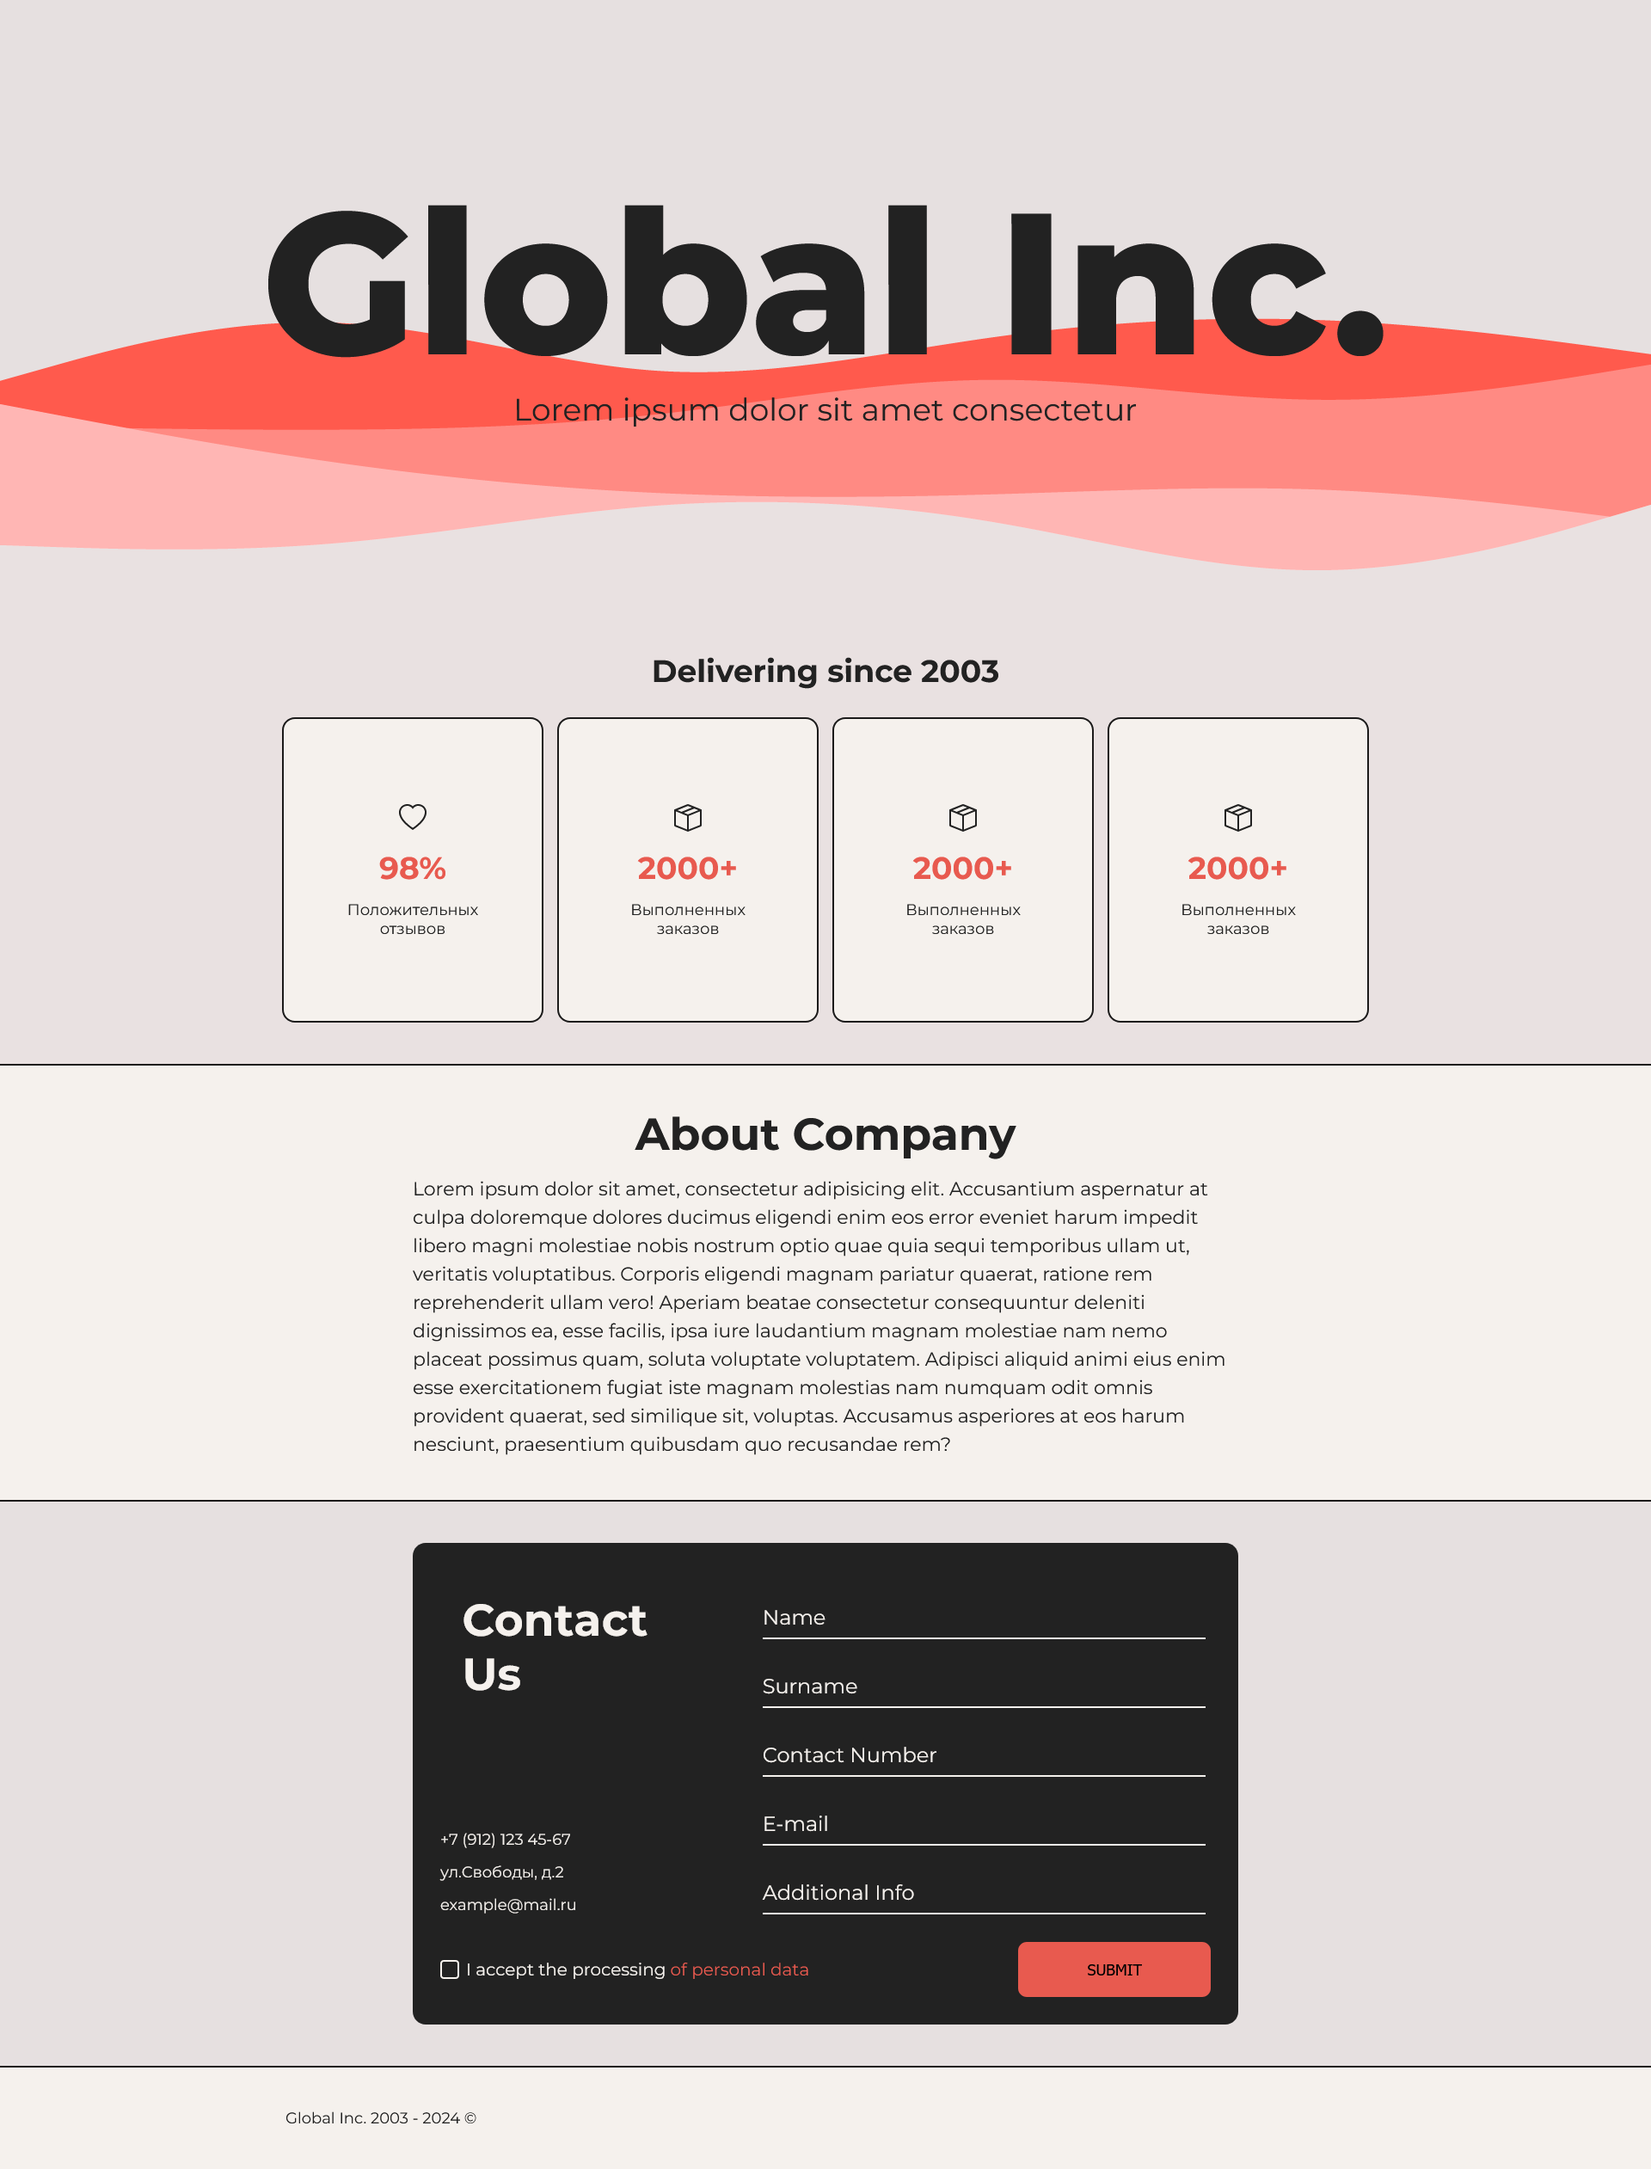
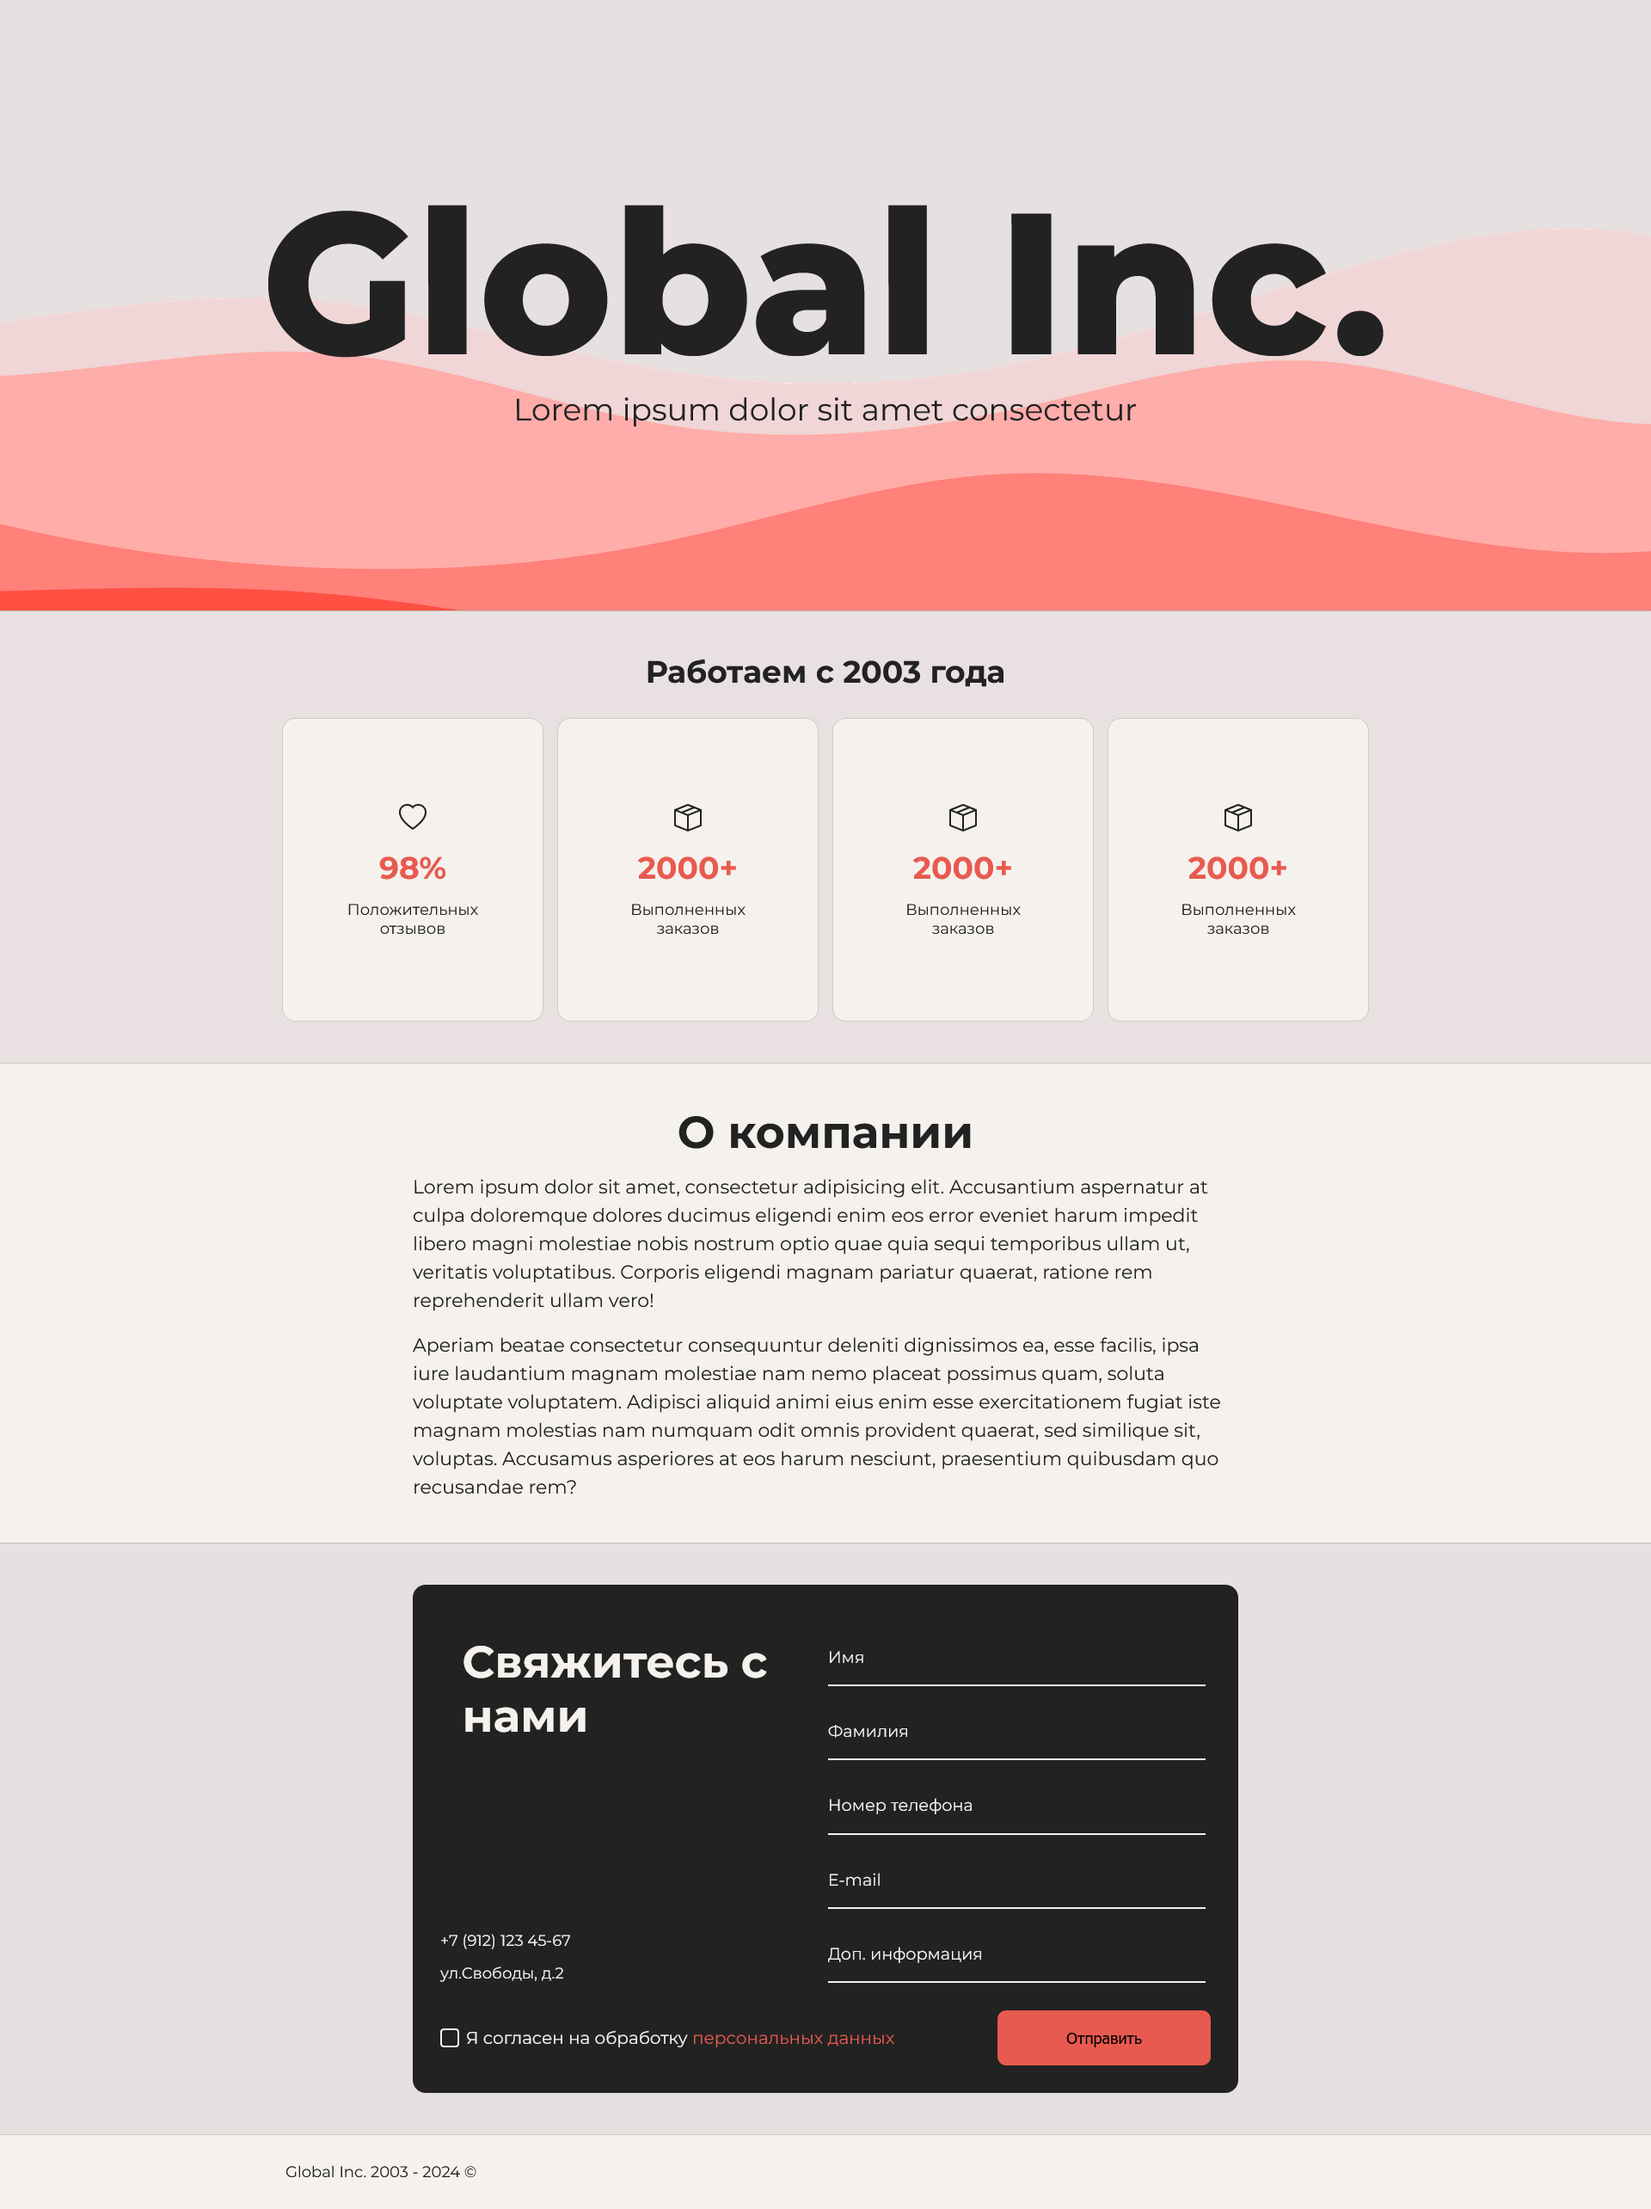
minor changes

diff --git a/src/App.js b/src/App.js
@@ -1,7 +1,8 @@
 import Aos from 'aos'
 import 'aos/dist/aos.css'
-import React, {useEffect} from "react";
+import React, {useEffect, useState} from "react";
 import TitleImg from './bg.png'
+import {ParallaxBanner, ParallaxBannerLayer, ParallaxProvider} from "react-scroll-parallax";
 
 function InfoItem({title, desc, icon}) {
     return (
@@ -23,21 +24,54 @@ function ContactInput({text, type}) {
 }
 
 export default function App() {
+    const [phoneNumber, setPhoneNumber] = useState("");
+    const [checkboxChecked, setCheckboxChecked] = useState(false);
+
     useEffect(() => {
         Aos.init();
     }, []);
+
+    const formatPhoneNumber = (value) => {
+        const cleanedValue = value.replace(/\D/g, '');
+        let formattedPhoneNumber = "+";
+        for (let i = 0; i < cleanedValue.length && i < 11; i++) {
+            if (i === 1)
+                formattedPhoneNumber += " (";
+            if (i === 4)
+                formattedPhoneNumber += ") ";
+            if (i === 7)
+                formattedPhoneNumber += "-";
+            if (i === 9)
+                formattedPhoneNumber += "-";
+            formattedPhoneNumber += cleanedValue[i];
+        }
+        return formattedPhoneNumber;
+    };
+
+    const handlePhoneNumberChange = (e) => {
+        const { value } = e.target;
+        setPhoneNumber(formatPhoneNumber(value));
+    };
+
+    const handlePhoneFocus = () => {
+        if (!phoneNumber.startsWith("+7")) {
+            setPhoneNumber("+7");
+        }
+    }
+
     return (
-        <>
-            <div className='title-section' style={{backgroundImage: `url(${TitleImg})`}}>
-                <div className='title-flexbox'>
-                    <h1 data-aos='fade-up' data-aos-duration="500">Global Inc.</h1>
-                    <h3 data-aos='fade-up' data-aos-duration="600">Lorem ipsum dolor sit amet consectetur</h3>
-                    {/*<a href="#" className="main-btn" data-aos='fade-up' data-aos-duration="700">CONTACT US</a>*/}
+        <ParallaxProvider>
+            <ParallaxBanner layers={[{ image: TitleImg, speed: -10 }]}>
+                <div className='title-section'>
+                    <div className='title-flexbox'>
+                        <h1 data-aos='fade-up' data-aos-duration="500">Global Inc.</h1>
+                        <h3 data-aos='fade-up' data-aos-duration="600">Lorem ipsum dolor sit amet consectetur</h3>
+                    </div>
                 </div>
-            </div>
+            </ParallaxBanner>
             <section className='stats-section'>
                 <div className='container'>
-                    <h3 className='stats-title' data-aos='fade-up' data-aos-duration="500">Delivering since 2003</h3>
+                    <h3 className='stats-title' data-aos='fade-up' data-aos-duration="500">Работаем с 2003 года</h3>
                     <div className='info' data-aos='fade-up' data-aos-duration="650" data-aos-offset="-100">
                         <InfoItem title='98%' desc='Положительных отзывов' icon='heart'/>
                         <InfoItem title='2000+' desc='Выполненных заказов' icon='box-seam'/>
@@ -50,8 +84,7 @@ export default function App() {
                 <div className='container'>
                     <div className='flexbox-center'>
                         <div style={{maxWidth: '60rem'}}>
-                            <h2 style={{marginBottom: '1rem', textAlign: 'center'}} data-aos='fade-up' data-aos-duration="500">About
-                                Company</h2>
+                            <h2 style={{marginBottom: '1rem', textAlign: 'center'}} data-aos='fade-up' data-aos-duration="500">О компании</h2>
                             <p style={{fontSize: 22, lineHeight: 1.5}} data-aos='fade-up' data-aos-duration="650">
                                 Lorem ipsum
                                 dolor sit amet, consectetur adipisicing elit. Accusantium aspernatur at culpa doloremque
@@ -61,7 +94,11 @@ export default function App() {
                                 optio
                                 quae quia sequi temporibus ullam ut, veritatis voluptatibus. Corporis eligendi magnam
                                 pariatur
-                                quaerat, ratione rem reprehenderit ullam vero! Aperiam beatae consectetur consequuntur
+                                quaerat, ratione rem reprehenderit ullam vero!
+                            </p>
+                            <br/>
+                            <p style={{fontSize: 22, lineHeight: 1.5}} data-aos='fade-up' data-aos-duration="650">
+                                Aperiam beatae consectetur consequuntur
                                 deleniti
                                 dignissimos ea, esse facilis, ipsa iure laudantium magnam molestiae nam nemo placeat
                                 possimus
@@ -81,19 +118,22 @@ export default function App() {
                         <div>
                             <div className='contact-flexbox'>
                                 <div className='contact-inner'>
-                                    <h2>Contact Us</h2>
+                                    <h2>Свяжитесь с нами</h2>
                                     <div className='contact-info'>
                                         <p>+7 (912) 123 45-67</p>
                                         <p>ул.Свободы, д.2</p>
-                                        <p>example@mail.ru</p>
                                     </div>
                                 </div>
                                 <div className='fields'>
-                                    <ContactInput text="Name" type='text'/>
-                                    <ContactInput text="Surname" type='text'/>
-                                    <ContactInput text="Contact Number" type='tel'/>
+                                    <ContactInput text="Имя" type='text'/>
+                                    <ContactInput text="Фамилия" type='text'/>
+                                    <div className="form__group field">
+                                        <input type='tel' className="form__field" placeholder='Телефон' name='Телефон'
+                                               id='number' value={phoneNumber} onChange={handlePhoneNumberChange} onFocus={handlePhoneFocus}/>
+                                        <label htmlFor='number' className="form__label">Номер телефона</label>
+                                    </div>
                                     <ContactInput text="E-mail" type='email'/>
-                                    <ContactInput text="Additional Info" type='text'/>
+                                    <ContactInput text="Доп. информация" type='text'/>
                                 </div>
                             </div>
                             <div className='contact-buttons'>
@@ -101,23 +141,22 @@ export default function App() {
                                     <input type="checkbox"/>
                                     <div className="checkbox__checkmark"></div>
                                     <div className="checkbox__body">
-                                        <p style={{fontSize: 20}}>I accept the processing <span
-                                            style={{color: '#E85A4F'}}><a
-                                            href="#">of personal data</a></span></p>
+                                        <p style={{fontSize: 20}}>Я согласен на обработку <span
+                                            style={{color: '#E85A4F'}}>персональных данных</span></p>
                                     </div>
                                 </label>
-                                <button className='submit-btn'>SUBMIT</button>
+                                <button className='submit-btn'>Отправить</button>
                             </div>
                         </div>
                     </form>
                 </div>
             </section>
             <footer>
-                <div className='container'>
+                <div className='container' style={{padding: '2rem'}}>
                     <p>Global Inc. 2003 - 2024 ©</p>
                 </div>
             </footer>
-        </>
+        </ParallaxProvider>
 
     );
 }

diff --git a/src/index.css b/src/index.css
@@ -118,7 +118,7 @@ a, a:visited, a:hover, a:active {
   text-align: center;
   overflow: hidden;
   background-color: #e9e1e1;
-  border-bottom: 2px solid #1B1A1A;
+  border-top: 1px solid #00000029;
 }
   .stats-title{
     padding-bottom: 2rem;
@@ -140,9 +140,9 @@ a, a:visited, a:hover, a:active {
       min-height: 22rem;
       min-width: 19rem;
       gap: 1rem;
-      border: 2px solid #1B1A1A;
       transition: .3s;
       background-color: #f5f1ed;
+      border: 1px solid #00000029;
     }
 
     .info-item:hover{
@@ -156,14 +156,15 @@ a, a:visited, a:hover, a:active {
 
 .about-section{
   background-color: #f5f1ed;
-  border-bottom: 2px solid #1B1A1A;
   overflow: hidden;
+  border-top: 1px solid #00000029;
 }
 
 .contact-section{
   overflow: hidden;
   padding: 3rem 2rem;
   background-color: #e6e0e0;
+  border-top: 1px solid #00000029;
 }
 
   .contact-box{
@@ -180,7 +181,6 @@ a, a:visited, a:hover, a:active {
     .contact-flexbox{
       display: flex;
       justify-content: space-between;
-      gap: 3rem;
     }
 
       .contact-inner{
@@ -237,7 +237,9 @@ a, a:visited, a:hover, a:active {
         border: 0;
         border-bottom: 2px solid #f5f1ed;
         outline: 0;
-        font-size: 2rem;
+        height: 3.825rem;
+        font-size: 1.5rem;
+        font-weight: 600;
         color: #f5f1ed;
         padding: 7px 0;
         background: transparent;
@@ -248,7 +250,7 @@ a, a:visited, a:hover, a:active {
         }
 
         &:placeholder-shown ~ .form__label {
-          font-size: 1.5rem;
+          font-size: 1.2rem;
           cursor: text;
           top: 30px;
         }
@@ -259,7 +261,7 @@ a, a:visited, a:hover, a:active {
         top: 0;
         display: block;
         transition: 0.3s;
-        font-size: 1.2rem;
+        font-size: 1.3rem;
         color: #f5f1ed;
       }
 
@@ -269,8 +271,7 @@ a, a:visited, a:hover, a:active {
           top: 0;
           display: block;
           transition: 0.2s;
-          font-weight: 700;
-          font-size: 1.2rem;
+          font-size: 1rem;
         }
         padding-bottom: 6px;
         transition: .3s;
@@ -328,6 +329,6 @@ a, a:visited, a:hover, a:active {
       }
 
 footer{
+  border-top: 1px solid #00000029;
   background-color: #f5f1ed;
-  border-top: 2px solid #1B1A1A;
 }

diff --git a/src/media.css b/src/media.css
@@ -73,7 +73,6 @@
     }
     .contact-info{
         flex-direction: row;
-        justify-content: space-between;
         padding: 1rem 0;
     }
     .fields{
